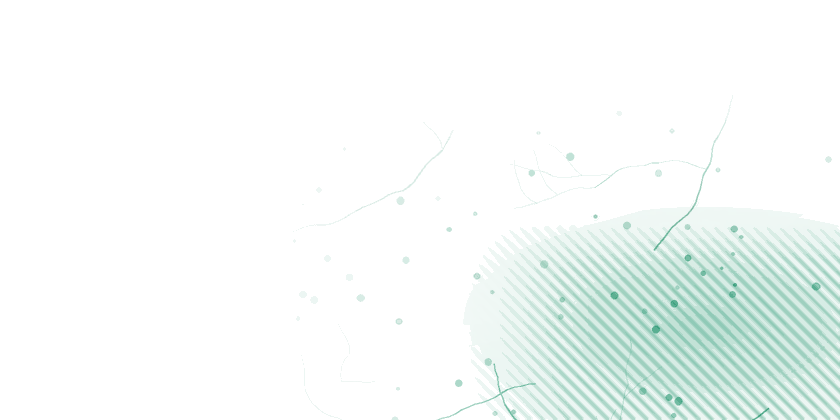
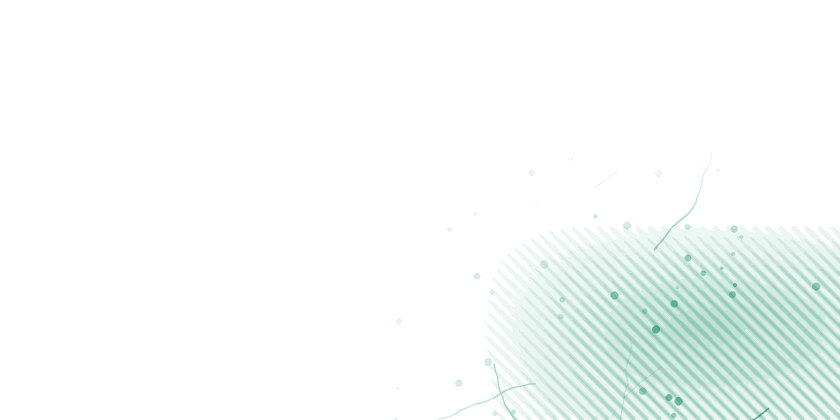
chore(tex): 纹理重生成（更小体积）+ 生成脚本调整
- src/static/moss/tex/*.webp 12 张重新导出，单张 4.7–18.5KB（总计约 132KB）
- tools/moss-render/gen-tex.py 与预览图同步更新
- 说明：tokens.scss 已定义 --tex-card/--tex-hero/--tex-amb，
  但组件尚未消费这些变量（卡片图片背景功能待接入）
验收：build 通过

diff --git a/src/components/moss/MossTex.vue b/src/components/moss/MossTex.vue
@@ -1,0 +1,102 @@
+<script setup lang="ts">
+/**
+ * 卡片背景纹理。
+ *
+ * ## 为什么用 <image> 而不是 CSS background-image
+ *
+ * uni-app 的 App 端（app-plus）对 CSS 里引本地静态资源有限制，
+ * 而 <image> 的 src="/static/..." 是本工程已经验证过的路径
+ * （见 MossBadge、me.vue 的 hero.webp）。统一走 <image>，
+ * 避免出现"H5 有图、App 没图"的分裂。
+ *
+ * ## 为什么要分角色（card / hero / amb）
+ *
+ * 三类容器的排版密度差很远：
+ *   · card  列表卡片，文字多，纹理必须退到角落
+ *   · hero  主视觉卡，有大片留白，纹理可以铺得更开
+ *   · amb   整页环境层，上面散布着各种文字，最克制
+ * 同一张图套三种场景，结果一定是"要么太淡要么太吵"。
+ *
+ * ## 强度由 CSS 控制，不由图片控制
+ *
+ * 图片里烘焙的是**图案遮罩**（哪里有纹、哪里干净），
+ * 最终浓度由 --tex-*-op 控制。这样换肤时只换一次 opacity，
+ * 不必为每个主题重新解码图片；同一张图也能被不同卡片复用。
+ *
+ * 具体的浓度值不是拍脑袋定的，是 tools/moss-render/check-tex.py
+ * 按「玻璃层盖在纹理上」的真实图层模型算出来的：
+ * 正文色 --t1 在文字区必须 ≥ 4.5:1，任何文字色相对无纹理基线的
+ * 劣化 ≤ 35%。改浓度必须重跑那个脚本。
+ */
+import { computed } from 'vue'
+import { skinClass, themeClass, state } from '@/core/store'
+
+type Role = 'card' | 'hero' | 'amb'
+
+const props = withDefaults(
+  defineProps<{
+    /** 纹理角色。决定用哪一套图。 */
+    role?: Role
+    /** 额外类名（给宿主定位用）。 */
+    cls?: string
+  }>(),
+  { role: 'card', cls: '' },
+)
+
+/**
+ * 资源路径。
+ *
+ * 文件名规则：{role}-{skin}-{mode}.webp
+ *   skin ∈ moss | 550w    来自 core/store 的 skinClass
+ *   mode ∈ dark | light   来自 core/store 的 themeClass
+ *
+ * 这里不用 CSS 变量拼路径，而是直接算：CSS 变量在 <image> 的 src 上
+ * 不可用（src 不是样式属性），所以路径必须由 JS 给出。
+ * 样式那边只负责 opacity 与定位。
+ */
+const src = computed(() => {
+  const skin = skinClass.value === 'skin-550w' ? '550w' : 'moss'
+  const mode = themeClass.value === 'is-light' ? 'light' : 'dark'
+  return `/static/moss/tex/${String(props.role)}-${skin}-${mode}.webp`
+})
+
+/** 浓度令牌：跟着主题走，和 tokens.scss 里的值一一对应。 */
+const op = computed(() => {
+  switch (props.role) {
+    case 'hero': return 'var(--tex-hero-op)'
+    case 'amb': return 'var(--tex-amb-op)'
+    default: return 'var(--tex-card-op)'
+  }
+})
+</script>
+
+<template>
+  <!--
+    纹理层永远在最底，且不接收事件。
+    pointer-events: none 是关键：不然它会吃掉卡片的点击，
+    出现"点了没反应"——这类 bug 在真机上极难定位。
+  -->
+  <image class="tex" :class="props.cls" :src="src" mode="scaleToFill" :style="{ opacity: op }" />
+</template>
+
+<style lang="scss" scoped>
+.tex {
+  position: absolute;
+  left: 0;
+  top: 0;
+  width: 100%;
+  height: 100%;
+  z-index: 0;
+  pointer-events: none;
+}
+
+/*
+ * 低端机降级：纹理是 12 张 WebP 的解码开销，
+ * state.lite 时直接不显示（docs/05 §6 的降级策略）。
+ * 注意这里用的是父级的 is-lite —— .dsh 上有该类，
+ * 但 scoped 样式要写成 :global(.dsh.is-lite) 才能命中。
+ */
+:global(.dsh.is-lite) .tex {
+  display: none;
+}
+</style>

diff --git a/tools/moss-render/gen-tex.py b/tools/moss-render/gen-tex.py
@@ -160,14 +160,19 @@ def quiet_mask(w: int, h: int, floor: float) -> np.ndarray:
     这是"不遮挡文字"的结构性保证，而不是靠调低整体不透明度
     （那会让纹理失去存在感）。
 
+    过渡带的位置是调出来的，不是拍脑袋定的：最初用 x-0.28 / y-0.16 起跳，
+    结果在 x=0.62（文字区右边界）处遮罩已经升到 0.72，
+    图案实质上铺了半张卡，hero 主题的文字区对比度直接掉 37%。
+    现在从 0.40/0.30 起跳、带宽 0.46/0.55，图案被压回真正的右下角。
+
     floor 是文字区允许的残留量。card/hero 取 0.03：
     完全为 0 会让左上出现一块"什么都没发生"的死区，看起来像图片没加载。
     amb 取 0：整页层不留任何图案残留。
     """
     x = np.linspace(0.0, 1.0, w)[None, :]
     y = np.linspace(0.0, 1.0, h)[:, None]
-    wx = smoothstep((x - 0.28) / 0.52)
-    wy = smoothstep((y - 0.16) / 0.58)
+    wx = smoothstep((x - 0.40) / 0.46)
+    wy = smoothstep((y - 0.30) / 0.55)
     m = np.clip(wx * wy * 1.14 - 0.02, 0.0, 1.0) ** 0.80
     return floor + (1.0 - floor) * m
 
